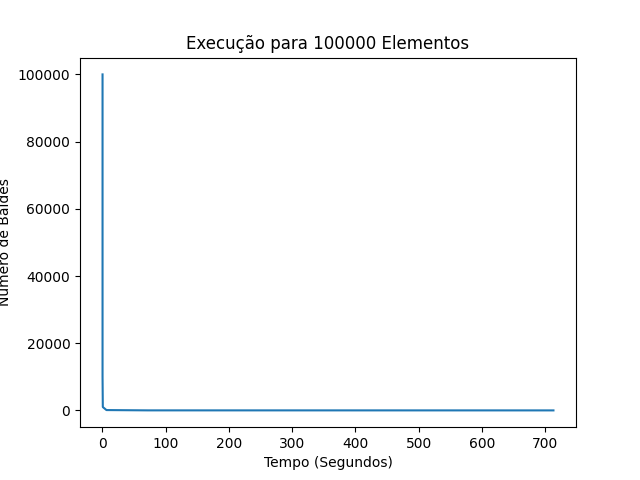
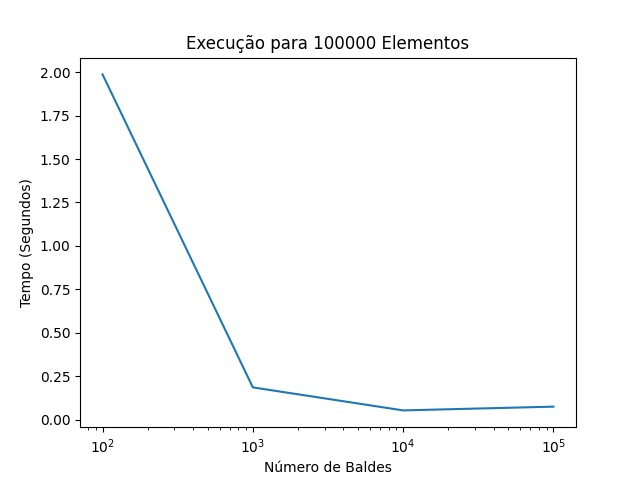
main plus figures

diff --git a/main.py b/main.py
@@ -2,7 +2,7 @@ import matplotlib.pyplot as plt
 from execute import execute
 
 sizes = [100000, 500000, 1000000]
-buckets = [1, 10, 100, 1000, 10000, 100000]
+buckets = [100, 1000, 10000, 100000]
 
 for size in sizes:
     times = []
@@ -10,12 +10,13 @@ for size in sizes:
         final_time = execute(size, bucket)
         times.append(final_time)
         print(f'Tamanho {size} Baldes {bucket} Tempo {final_time}')
+    plt.close()
     plt.plot(buckets, times)
 
     plt.xscale('log')
 
-    plt.xlabel('Tempo (Segundos)')
-    plt.ylabel('Número de Baldes')
+    plt.xlabel('Número de Baldes')
+    plt.ylabel('Tempo (Segundos)')
     plt.title(f'Execução para {size} Elementos')
 
     plt.savefig(f'./figures/{size}.png')
